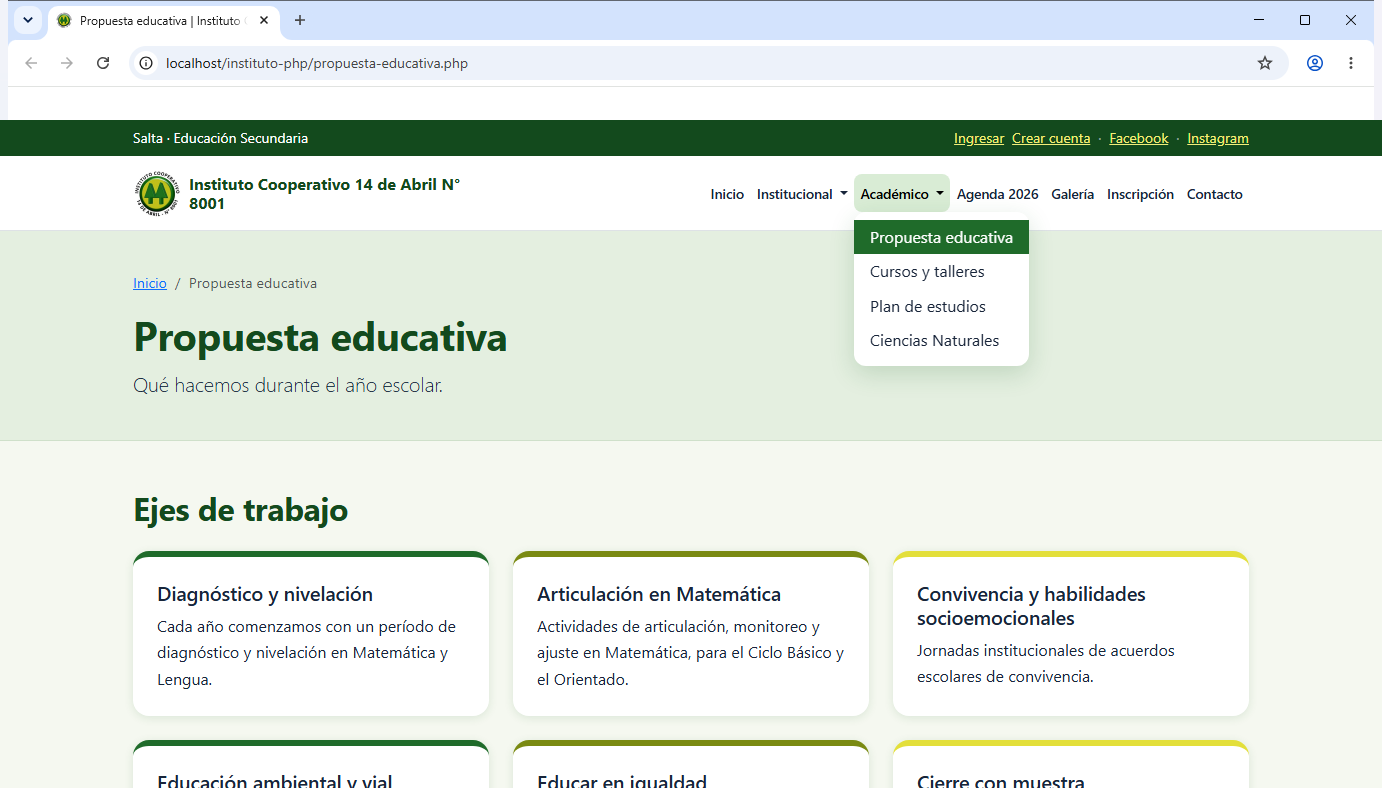
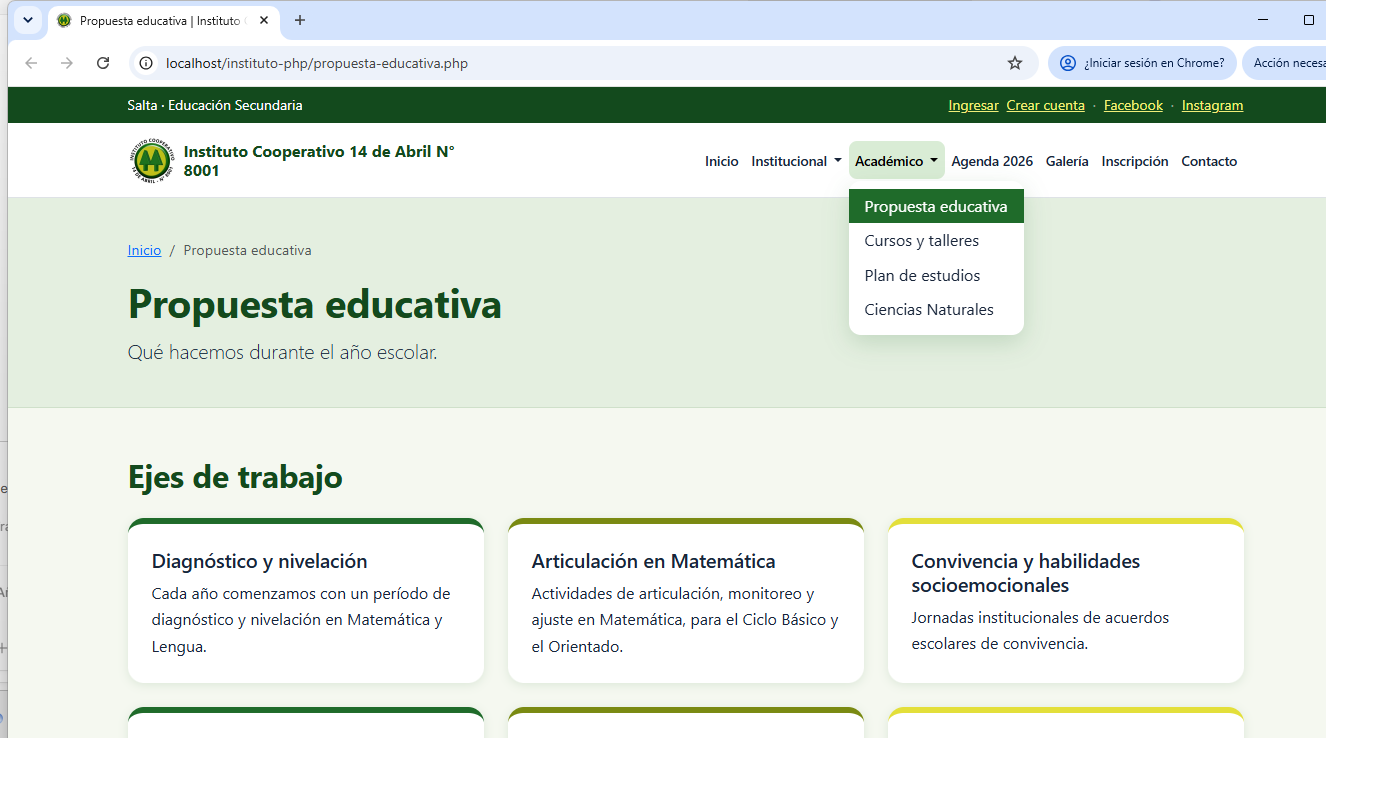
docs: reemplaza capturas y completa documentacion del TP4

diff --git a/README.md b/README.md
@@ -4,7 +4,16 @@ Sitio web institucional (Salta): Educación Secundaria, turno mañana, 1.º a 5.
 
 > **Proyecto completo:** la versión actualizada está en [`Desktop/Fer/instituto-php/`](Desktop/Fer/instituto-php/). La documentación detallada, las instrucciones de instalación y **todas las capturas** están en el [README del proyecto](Desktop/Fer/instituto-php/README.md).
 >
-> **Para la corrección:** abrir esa carpeta como raíz del proyecto y usar el README completo. La copia de la raíz es la versión inicial del sitio.
+> **Para la corrección:** abrir esa carpeta como raíz del proyecto y usar el README completo. La copia de la raíz conserva la versión TP1–TP4 del sitio.
+
+## Prototipo de Figma
+
+- [Repositorio del prototipo](https://github.com/Fer-2026/Dise-o-UI-UX-Mockup-Figma-)
+- [Mockups en Figma](https://www.figma.com/make/UL3GSEQOHBF6XCXKV9COQ8/High-Fidelity-Mockups-for-School?t=qmuPPG4mTDi6oJpE-1)
+
+## Tecnologías
+
+HTML5, CSS3, Bootstrap 5.3, JavaScript, PHP 8.x, MySQL/MariaDB, XAMPP/Laragon, Git, GitHub, Prettier y CodeIgniter 4 (TP10).
 
 ## Documentación y accesos rápidos
 
@@ -57,11 +66,15 @@ Las 10 vistas pasaron a PHP y comparten header, nav y footer. El título se gene
 
 **1. Servidor local ejecutándose**
 
-![Sitio corriendo en localhost/instituto-php](Desktop/Fer/instituto-php/docs/capturas/tp4/01-servidor-local.jpg)
+![Sitio corriendo en localhost/instituto-php](Desktop/Fer/instituto-php/docs/capturas/tp4/01-servidor-local.png)
 
 **2. Estructura modular (SSI)**
 
-![Código fuente de header.php, nav.php y footer.php](Desktop/Fer/instituto-php/docs/capturas/tp4/02-estructura-ssi.png)
+![Código fuente de includes/header.php](Desktop/Fer/instituto-php/docs/capturas/tp4/02a-header.png)
+
+![Código fuente de includes/nav.php](Desktop/Fer/instituto-php/docs/capturas/tp4/02b-nav.png)
+
+![Código fuente de includes/footer.php](Desktop/Fer/instituto-php/docs/capturas/tp4/02c-footer.png)
 
 **3. Navegación dinámica**
 
@@ -155,11 +168,28 @@ Parte A: CRUD de cursos refactorizado a MVC nativo. Parte B: módulo independien
 
 [Ver las 12 capturas de TP10](Desktop/Fer/instituto-php/docs/capturas/tp10/)
 
-## Ejecución rápida
+## Instalación y ejecución local
 
-1. Iniciar **Apache** y **MySQL** desde XAMPP.
-2. Copiar `Desktop/Fer/instituto-php/` a `htdocs/instituto-php/` o configurar el `DocumentRoot` apuntando a esa carpeta.
-3. Abrir `http://localhost/instituto-php/`.
-4. Para el módulo CodeIgniter, ejecutar `composer install` dentro de `tp10/framework/` si falta `vendor/`.
+1. Clonar el repositorio:
+
+```bash
+git clone https://github.com/Fer-2026/Pagina-PHP.git
+```
+
+2. Copiar la carpeta completa `Pagina-PHP/Desktop/Fer/instituto-php/` a `C:\xampp\htdocs\instituto-php` (o configurar el `DocumentRoot` apuntando a esa carpeta).
+3. Crear el archivo local `.env` a partir de la plantilla:
+
+```bash
+cd /c/xampp/htdocs/instituto-php
+cp .env.example .env
+```
+
+4. Iniciar **Apache** y **MySQL** desde XAMPP.
+5. Abrir `http://localhost/instituto-php/`.
+6. Para el módulo CodeIgniter, ejecutar `composer install` dentro de `tp10/framework/` si falta `vendor/`.
 
 La explicación completa de cada TP, los requisitos y las pruebas están en el [README del proyecto](Desktop/Fer/instituto-php/README.md).
+
+## Flujo de Git
+
+La corrección y la evidencia de TP4 se integran desde la rama `feature/migracion-php-ssi` a `main` mediante Pull Request. Las etapas siguientes se desarrollaron en `feature/tp6-base-de-datos`, `feature/tp7-crud`, `feature/tp8-sesiones-autenticacion`, `feature/tp9-ajax-json` y `feature/tp10-mvc-framework`.

diff --git a/Desktop/Fer/instituto-php/README.md b/Desktop/Fer/instituto-php/README.md
@@ -56,11 +56,15 @@ El sitio estático del Hito 1 se migró a **PHP**:
 
 **1. Servidor local ejecutándose**
 
-![Sitio corriendo en localhost/instituto-php](docs/capturas/tp4/01-servidor-local.jpg)
+![Sitio corriendo en localhost/instituto-php](docs/capturas/tp4/01-servidor-local.png)
 
 **2. Estructura modular (SSI)**
 
-![Código fuente de header.php, nav.php y footer.php](docs/capturas/tp4/02-estructura-ssi.png)
+![Código fuente de includes/header.php](docs/capturas/tp4/02a-header.png)
+
+![Código fuente de includes/nav.php](docs/capturas/tp4/02b-nav.png)
+
+![Código fuente de includes/footer.php](docs/capturas/tp4/02c-footer.png)
 
 **3. Navegación dinámica**
 
@@ -110,7 +114,7 @@ Alternativa sin XAMPP: `php -S localhost:8000` dentro de la carpeta.
 > Las capturas de TP1 a TP4 están integradas en cada sección anterior. La carpeta completa de evidencias es [`docs/capturas/`](docs/capturas/).
 
 ## Flujo de Git
-Ramas `feature/maquetacion` y `feature/migracion-php-ssi`, integradas a `main` con Pull Request.
+La corrección y la evidencia de TP4 se integran desde la rama `feature/migracion-php-ssi` a `main` mediante Pull Request. Las etapas siguientes se desarrollaron en `feature/tp6-base-de-datos`, `feature/tp7-crud`, `feature/tp8-sesiones-autenticacion`, `feature/tp9-ajax-json` y `feature/tp10-mvc-framework`.
 
 ## Fuentes
 Datos del instituto: sitios públicos y su perfil de Instagram. Los nombres del equipo docente son ficticios (maqueta). Agenda: PDF institucional 2026.
